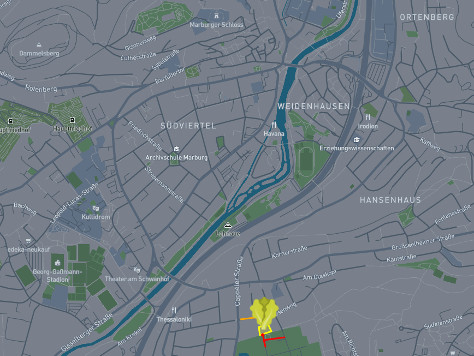
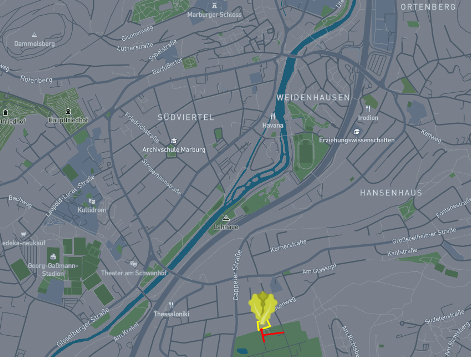
PostAnzucht

diff --git a/gartenprojekt.md b/gartenprojekt.md
@@ -12,16 +12,10 @@ title: So läuft´s
         <li>Zucchinibeitrag: 24€</li>
         <li>Rosenbeitrag: 36€</li>
     </ul>
-    <h2 class="title">Was steht an?</h2>
-    <ul>
-        <li>Gewächshaus bauen</li>
-        <li>Geräteschuppen wieder aufbauen</li>
-        <li>Weiter Beete fit machen für den Saisonstart</li>
-    </ul>
     <h2 class="title">Wie?</h2>
-	<p>Unsere Pläne sind meist sehr flexibel gehalten. Bei uns läuft alles sehr locker und entspannt ab und jeder kann seine Ideen einbringen, oder auch ein eigenes kleines Beet bewirtschaften. Zur Orientierung, was wo wächst dienen beschriftete Löffel, die im Beet stecken (und eine Karte der Beete?).</p>
+	<p>Unsere Pläne sind meist sehr flexibel gehalten. Bei uns läuft alles sehr locker und entspannt ab und jeder kann seine Ideen einbringen, oder auch ein eigenes kleines Beet bewirtschaften. Um gemeinschaftlich größere Entscheidungen zu treffen, Probleme zu besprechen, Pläne zu schmieden, Projekte zu planen und uns weiterzuentwickeln, treffen wir uns hin und wieder zum Gartenplenum. Viele Dinge lassen sich aber auch gut am Lagerfeuer diskutieren. Was es gerade konkret im Garten zu tun gibt, verrät dir diese Liste: <a href="/wasstehtan">Was steht an?</a> Dort findest du auch eine Karte der Beete.</p>
     <h2 class="title">Wann?</h2>
-	<p>Wir haben keine festen Gartenzeiten, sondern sprechen uns kurzfristig ab. Alle festen Termine findest du im <a href="/calender"> Kalender </a> .</p>
+	<p>Wir haben keine festen Gartenzeiten, sondern sprechen uns kurzfristig ab. Oder wir gehen einfach so los, vielleicht ist ja schon jemand da!? Alle festen Termine findest du im <a href="/calender"> Kalender</a> .</p>
 </div>
 
 <!-- <div class="home" id="home"> -->

diff --git a/contact.md b/contact.md
@@ -34,10 +34,8 @@ maps: true
 <h3>Oder komm einfach vorbei...</h3>
     <div>
         <p>Den Garten findest du hier:</p>
-        <p>Entweder aus Richtung der Vitos Klinik kommend (auf der Karte in rot):</p>
+        <p>Aus Richtung der Vitos Klinik kommend (auf der Karte in rot):</p>
         <p>Cappeler Str. 72, 35039 Marburg</p>
-        <p>Oder du nimmst den Durchgang zwischen den Häusern (auf der Karte in orange):</p>
-        <p>Rollwiesenweg 34 und 36, 35039 Marburg</p>
         </div>
         <div id="mapid" style ="height: 700px;"></div>
         <!-- Basemaps -->
@@ -60,13 +58,6 @@ maps: true
                 [50.794397, 8.771383],
                 [50.794748, 8.771112]
                 ], {color: 'yellow'}).addTo(mymap);
-            var polyline2 = L.polyline([
-                [50.795011, 8.768959],
-                [50.79515, 8.770703],
-                [50.794902, 8.770751],
-                [50.79496, 8.770628],
-                [50.794895, 8.770746],
-                [50.795011, 8.770778]], {color: 'orange'}).addTo(mymap);
             var polyline1 = L.polyline([
                 [50.794204, 8.770601],
                 [50.794258, 8.770676],

diff --git a/wasstehtan.md b/wasstehtan.md
@@ -1,0 +1,16 @@
+---
+layout: default
+title: Was steht an?
+---
+
+<div class="articles">
+    <h2 class="title">Was steht an?</h2>
+    <ul>
+        <li>Anzuchten</li>
+        <li>Gewächshaus bauen</li>
+        <li>Geräteschuppen wieder aufbauen</li>
+        <li>Weiter Beete fit machen für den Saisonstart</li>
+    </ul>
+    <h2 class="title">Die Beete auf einen Blick</h2>
+    <p>Eine Karte der Beete ist in Arbeit</p>
+</div>
